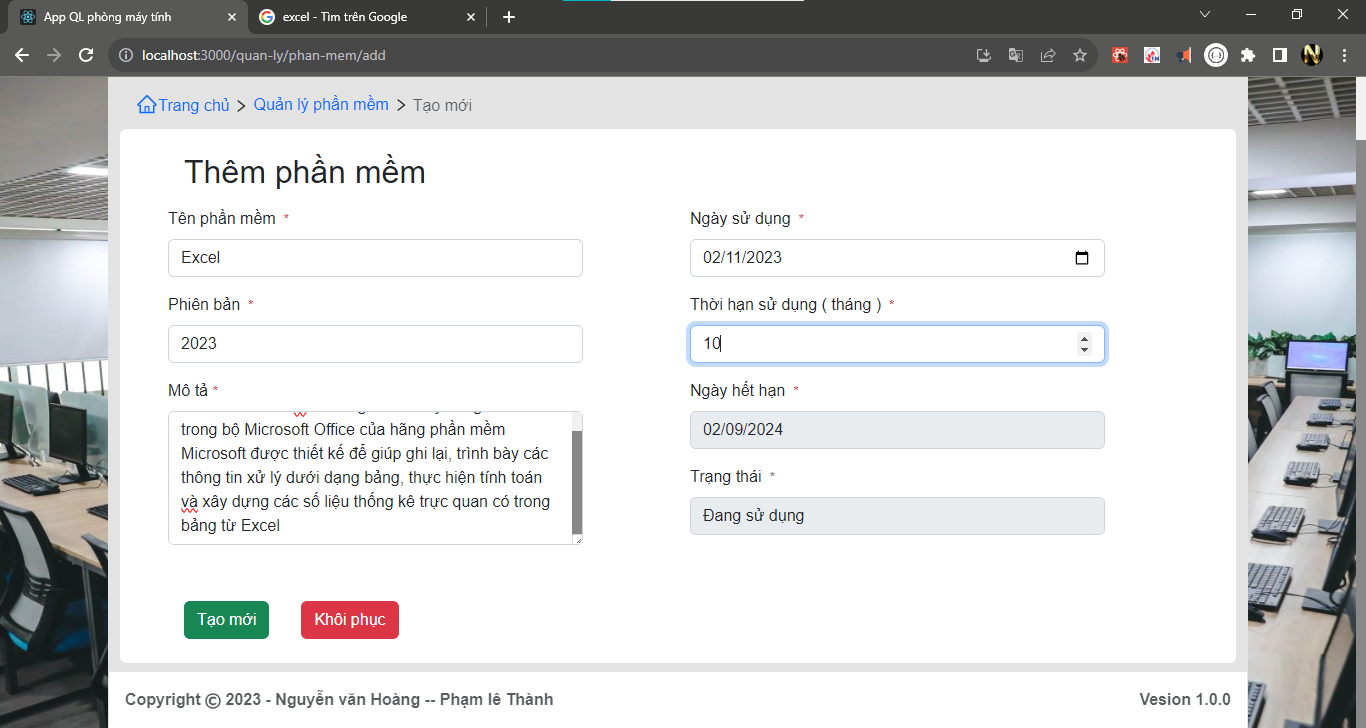
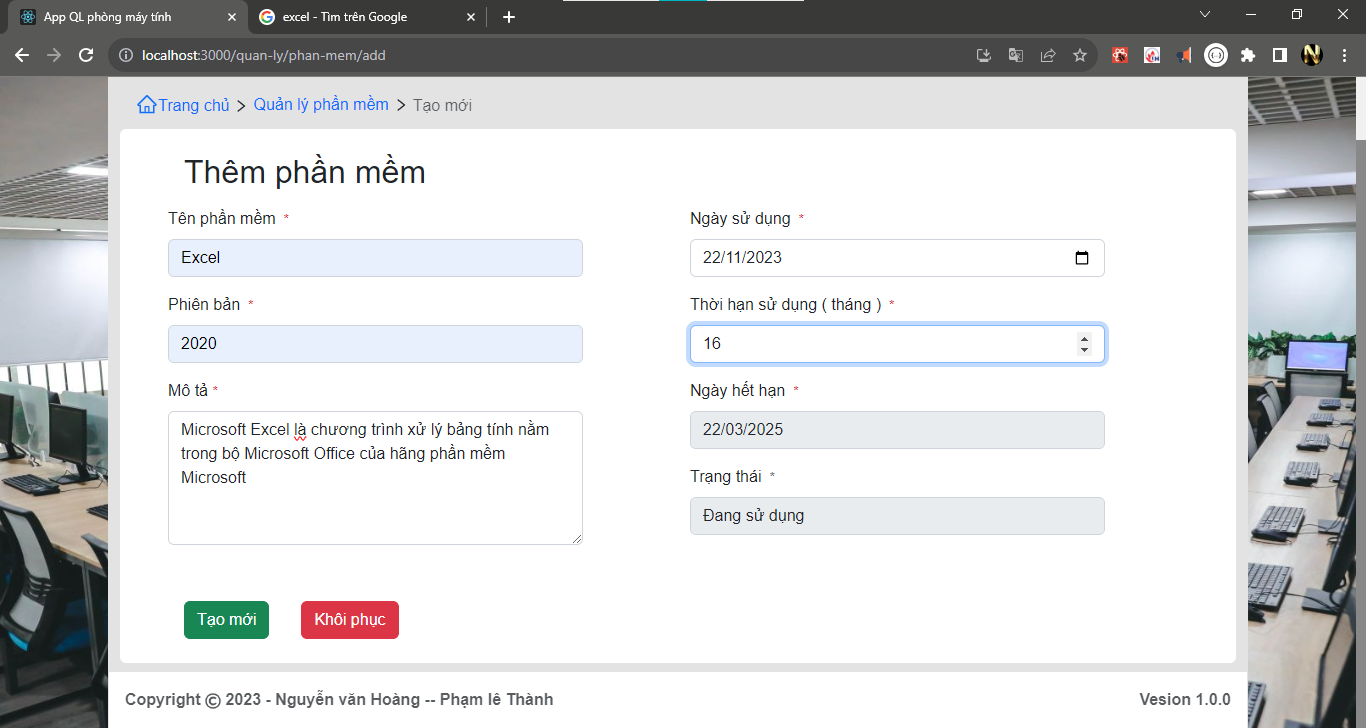
QLPhanMem: finish add PM theo api

Changed region(s): [[0.123, 0.5742, 0.4305, 0.7555], [0.123, 0.4533, 0.1537, 0.4835], [0.123, 0.3324, 0.1537, 0.3626]]

diff --git a/src/redux/reducers/phanMemReducer.jsx b/src/redux/reducers/phanMemReducer.jsx
@@ -2,6 +2,7 @@
 
 import { createSlice } from "@reduxjs/toolkit";
 import { formatStringDate, http } from "../../util/config";
+import { history } from "../..";
 
 const initialState = {
   arrPhanMem: [],
@@ -43,6 +44,19 @@ const phanMemReducer = createSlice({
         action.payload
       );
     },
+    insertPhanMemAction: (state, action) =>{
+      let item = action.payload;
+
+      state.arrPhanMem.push(item);
+
+      //
+      let { arrPhanMem, valueSearch, valueSelect } = state;
+      state.arrPhanMemSearch = searchData(
+        arrPhanMem,
+        valueSearch,
+        valueSelect
+      );
+    }
   },
 });
 // exp nay de sử dụng theo cách 2
@@ -50,6 +64,7 @@ export const {
   setArrPhanMemAction,
   setValueSelectPhanMemAction,
   setValueSearchPhanMemAction,
+  insertPhanMemAction,
 } = phanMemReducer.actions;
 export default phanMemReducer.reducer;
 
@@ -111,6 +126,20 @@ const searchData = (arrData, valSearch, valSelect) => {
 };
 
 // Call Api ++++++++++++++++++++++++++++++++++++++
+
+export const insertPhanMemApi = (phanMem) => {
+  return async(dispatch) =>{
+    try {
+      let result = await http.post('/LuuPhanMem', phanMem);
+
+      dispatch(insertPhanMemAction(result.data))
+      history.push('/quan-ly/phan-mem')
+    } catch (error) {
+      console.log("🚀 ~ file: phanMemReducer.jsx:120 ~ returnasync ~ error:", error)
+      
+    }
+  }
+}
 /**
  * get all api Phan mem
  */

diff --git a/src/components/layout/Add/FormAddPhanMem.jsx b/src/components/layout/Add/FormAddPhanMem.jsx
@@ -3,7 +3,7 @@ import Footer from "../../common/Footer/Footer";
 import NavTab from "../../common/NavTab/NavTab";
 import { formatStringDate, formatStringDate2 } from "../../../util/config";
 import { useDispatch, useSelector } from "react-redux";
-import { getAllPhanMemApi } from "../../../redux/reducers/phanMemReducer";
+import { getAllPhanMemApi, insertPhanMemApi } from "../../../redux/reducers/phanMemReducer";
 
 let date = new Date();
 let dateYear = date.getFullYear();
@@ -70,15 +70,14 @@ export default function FormAddPhanMem() {
 
     let phanMemNew = {
       tenPhanMem,
-      status: true,
+      trangThai: true,
       moTa,
       phienBan,
       tuoiTho: tgianBaoHanh,
       ngayCaiDat: new Date(ngaySD),
     };
-    console.log("🚀 ~ file: FormAddPhanMem.jsx:79 ~ handleSubmit ~ phanMemNew:", phanMemNew)
     //
-    // dispatch(insertThietBiApi(thietBiNew));
+    dispatch(insertPhanMemApi(phanMemNew));
   };
   const checkData = () => {
     let check = 1;
@@ -138,7 +137,10 @@ export default function FormAddPhanMem() {
       ngayKT,
     };
 
-    setErrPhanMem({ ...errPhanMem });
+    setErrPhanMem({
+      ...errPhanMem,
+      tgianBaoHanh: "",
+    });
   };
 
   //

diff --git a/src/components/layout/Add/FormAddThietBi.jsx b/src/components/layout/Add/FormAddThietBi.jsx
@@ -138,7 +138,10 @@ export default function FormAddThietBi() {
       ngayKT,
     };
 
-    setErrTBi({ ...errTbi });
+    setErrTBi({
+      ...errTbi,
+      tgianBaoHanh: "",
+    });
   };
 
   //
